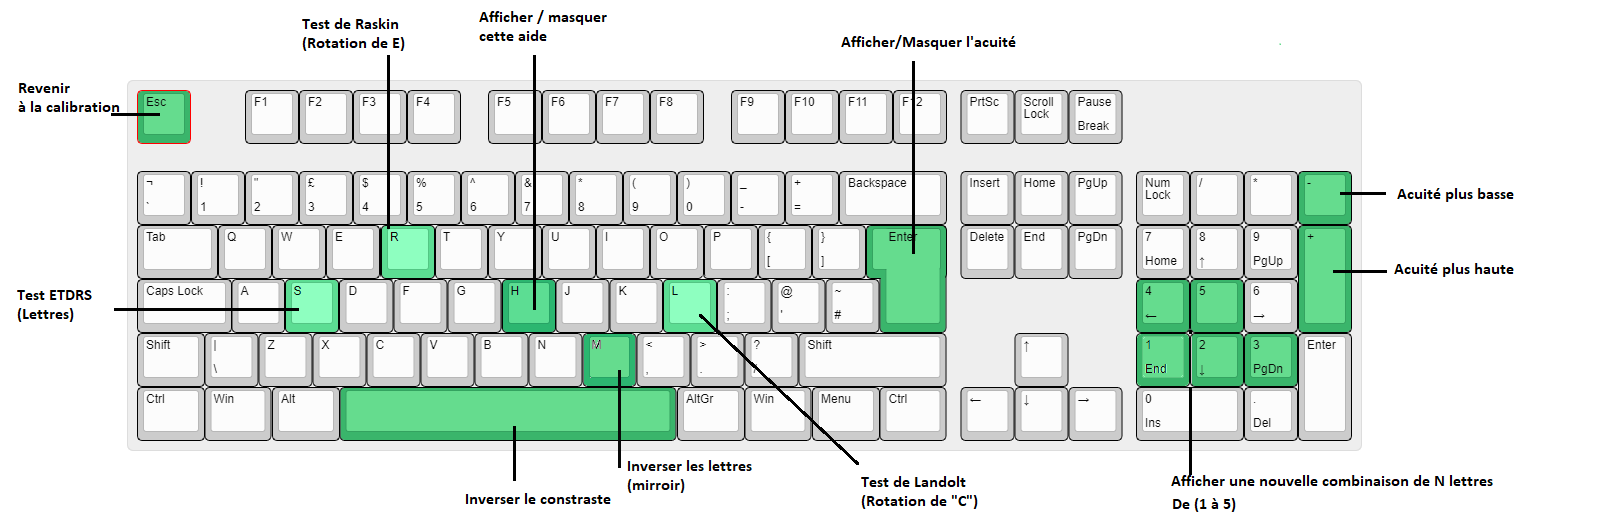
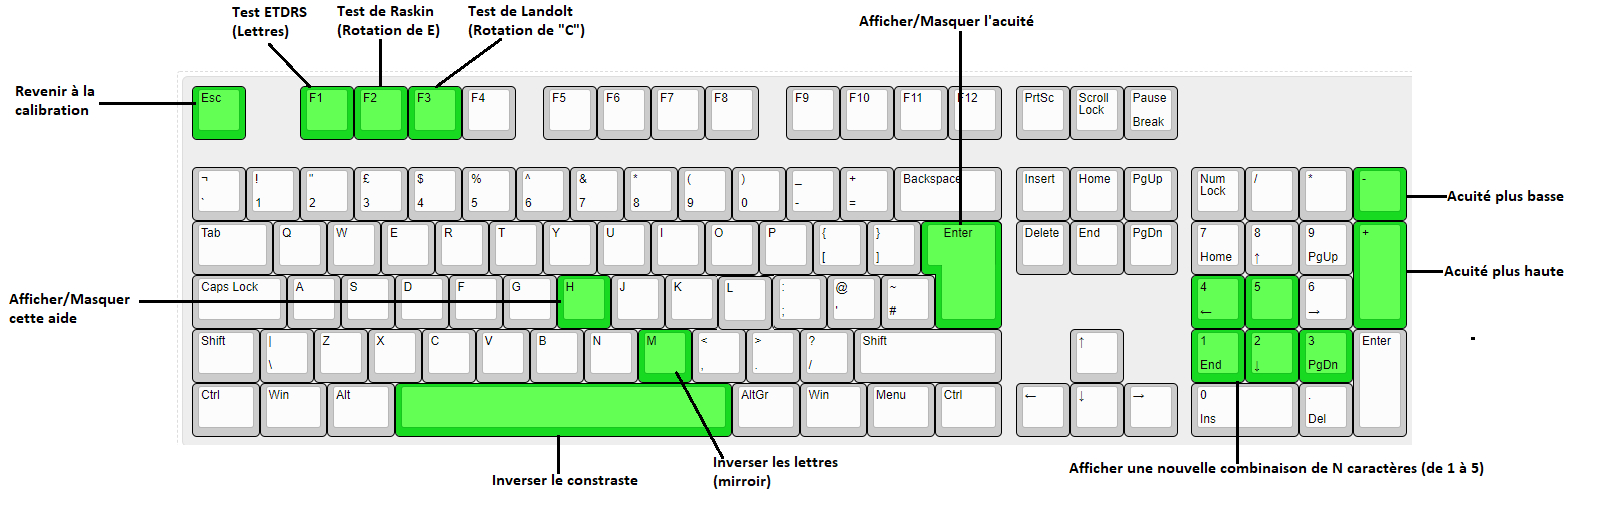
Maj

diff --git a/TestAcuite/ViewModels/AcuiteViewModel.cs b/TestAcuite/ViewModels/AcuiteViewModel.cs
@@ -197,17 +197,17 @@ namespace TestAcuite.ViewModels
                 case SharpHook.Native.KeyCode.VcM:
                     ScaleXValue = ScaleXValue *= -1;
                     break;
-                case SharpHook.Native.KeyCode.VcS:
+                case SharpHook.Native.KeyCode.VcF1:
                     FontToUse = "Sloan";
                     _lstToShow = _lstSloan;
                     ShowCombinaison();
                     break;
-                case SharpHook.Native.KeyCode.VcR:
+                case SharpHook.Native.KeyCode.VcF2:
                     FontToUse = "RaskinLandol";
                     _lstToShow = _lstRaskin;
                     ShowCombinaison();
                     break;
-                case SharpHook.Native.KeyCode.VcL:
+                case SharpHook.Native.KeyCode.VcF3:
                     FontToUse = "RaskinLandol";
                     _lstToShow = _lstLandolt;
                     ShowCombinaison();
